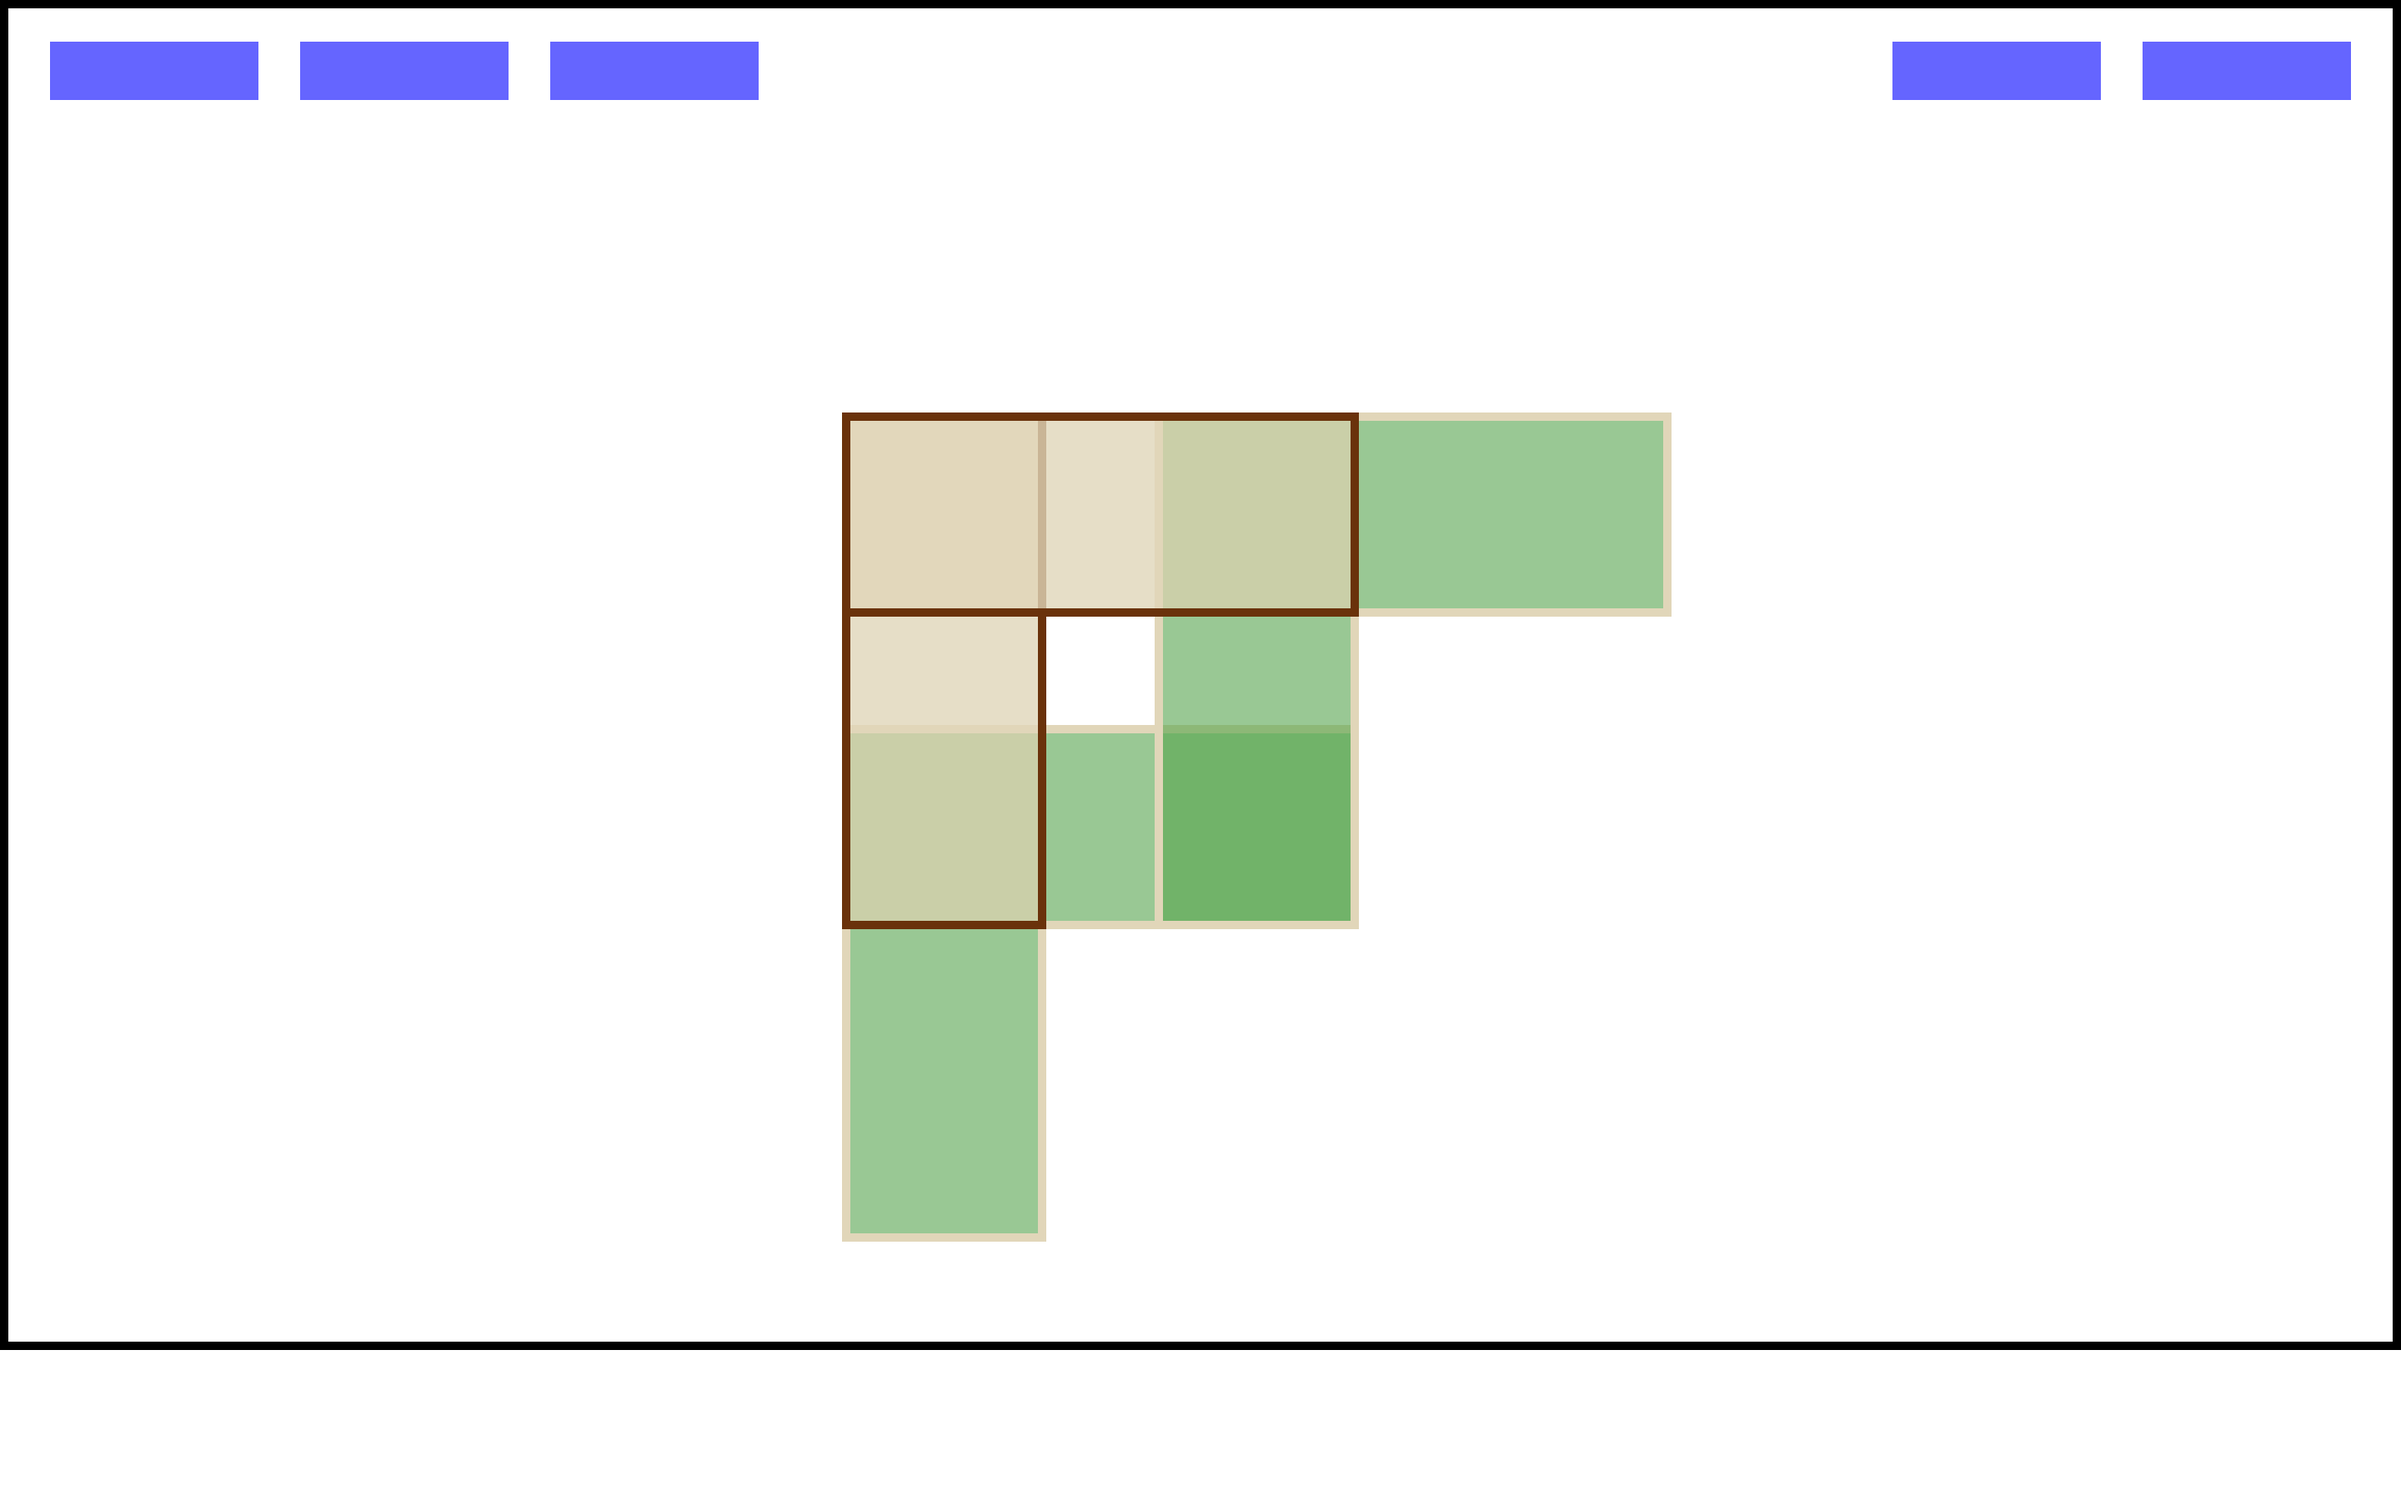
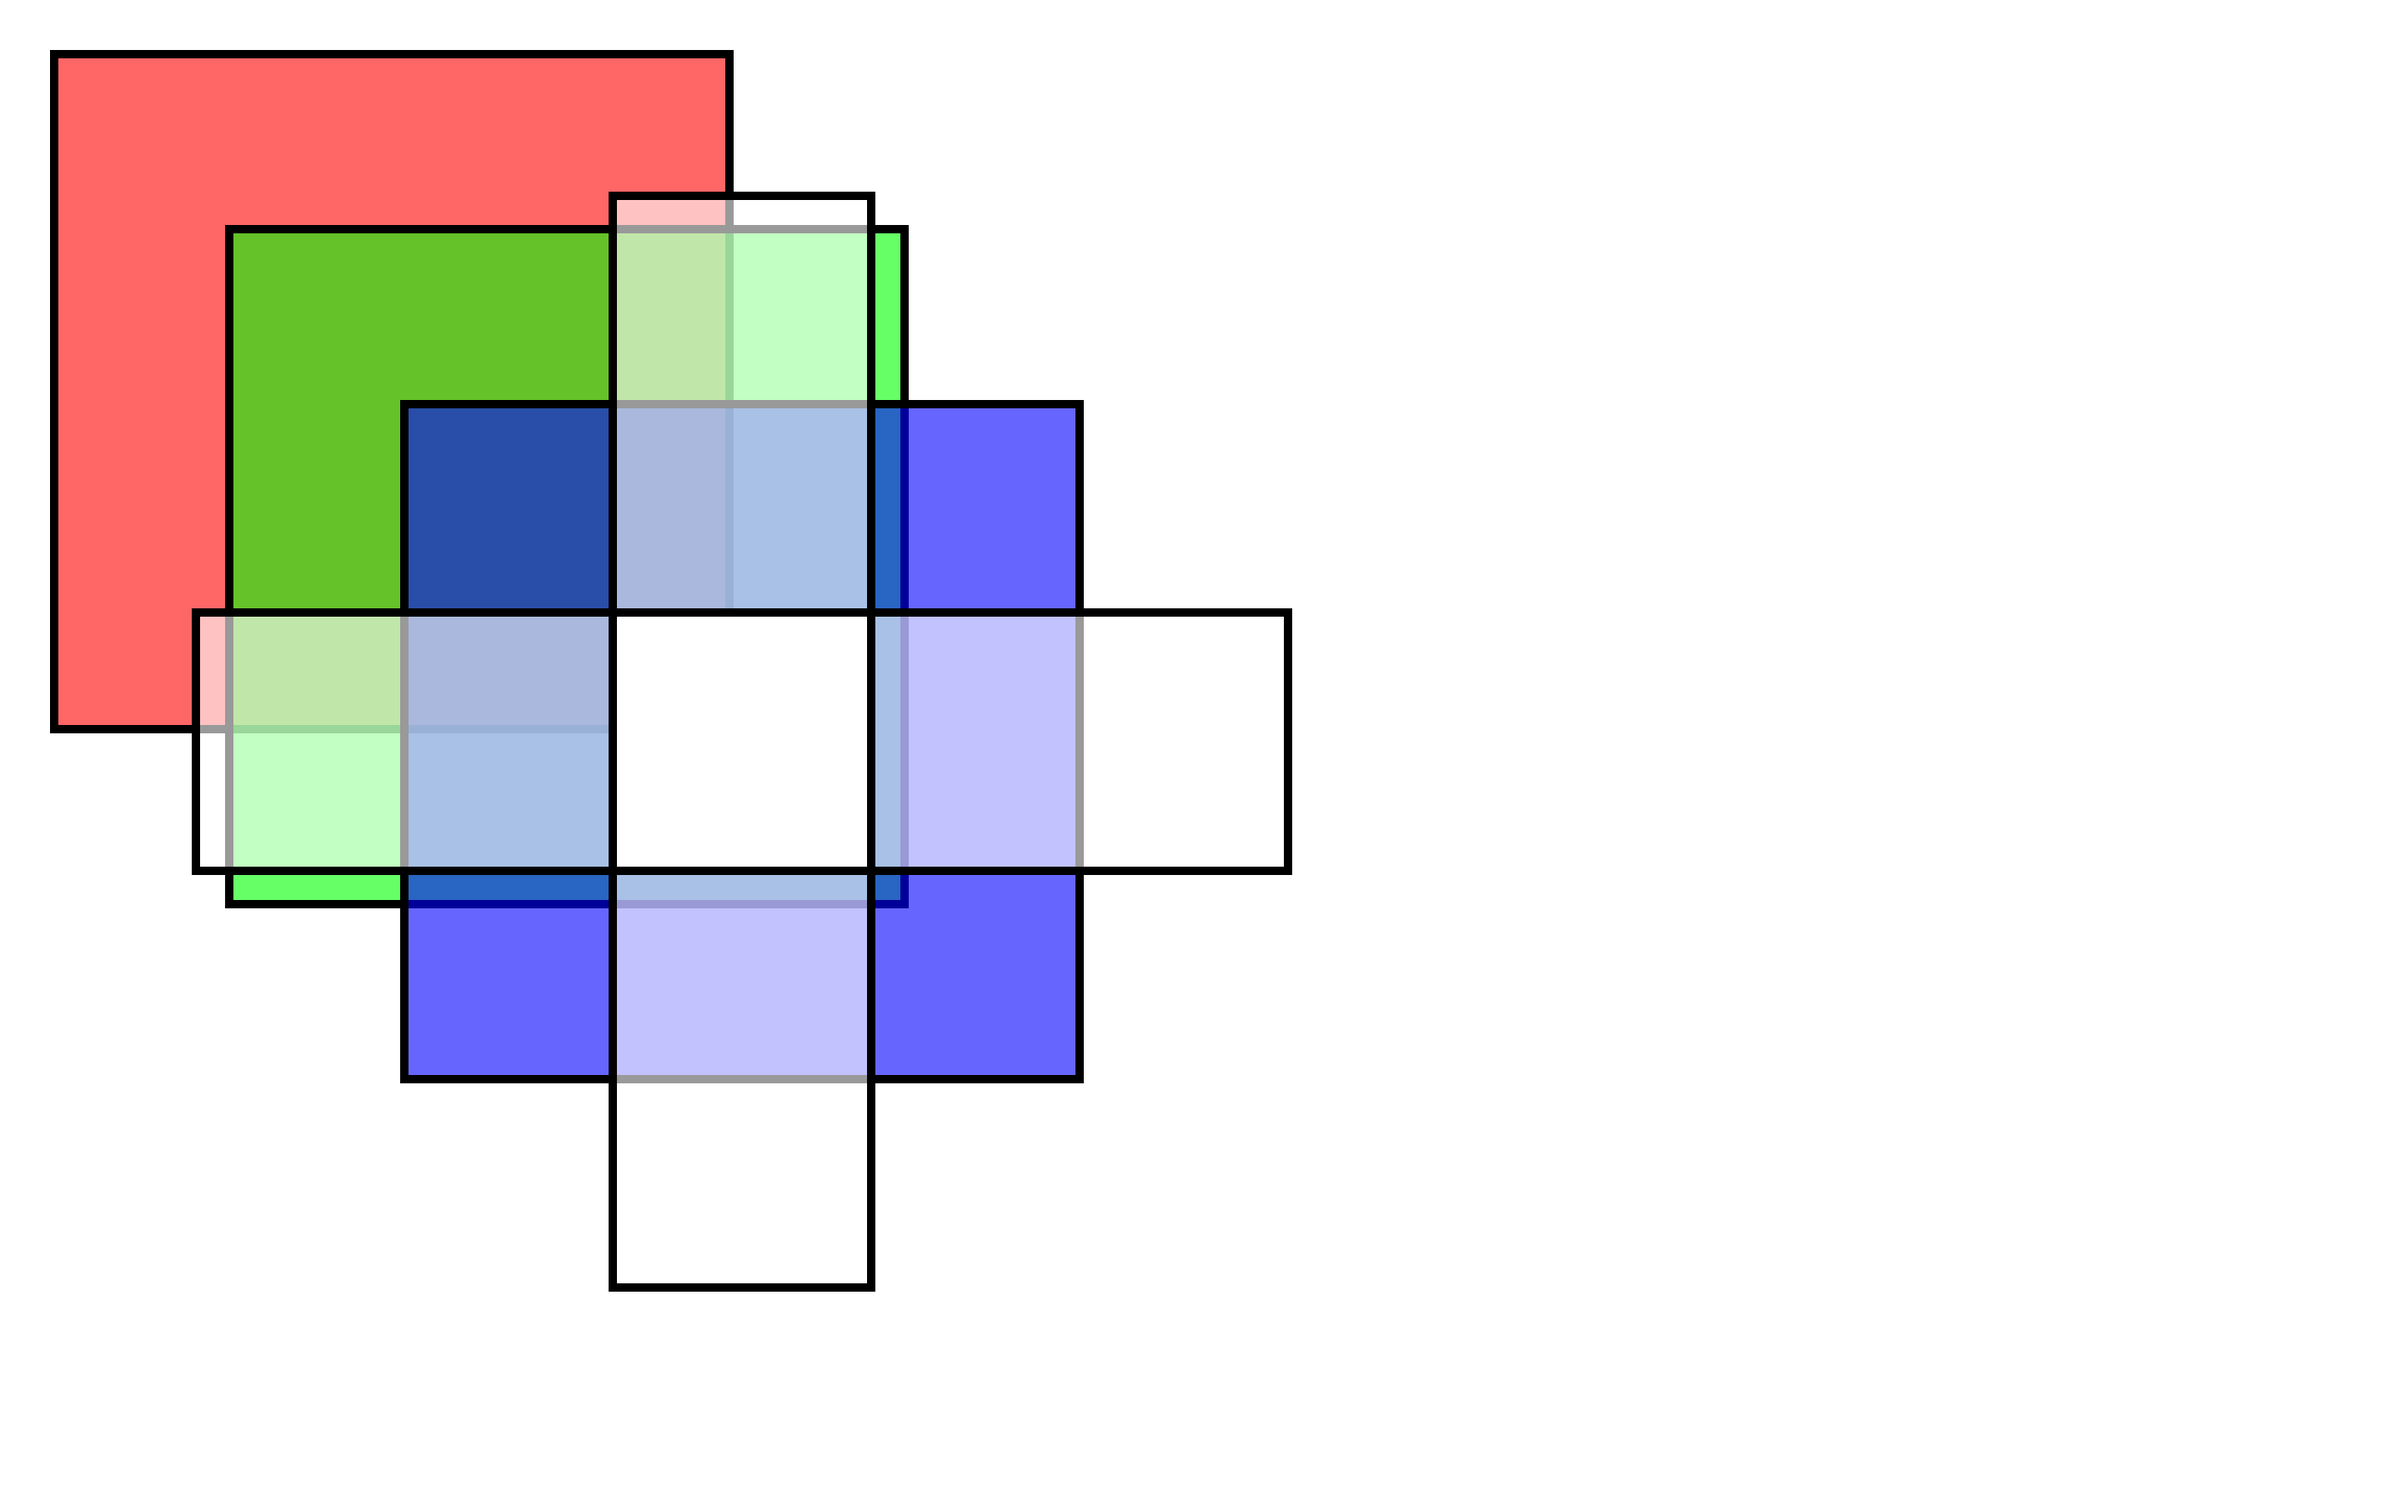
cleanup: cpp includes and implied ownership

diff --git a/src/layout.cpp b/src/layout.cpp
@@ -179,7 +179,7 @@ Layout::BoxPtr Layout::Box::from(const Style::StyledNode & styledRoot) {
                 root.children.push_back(Box::from(child));
                 break;
             case Inline:
-                root.getInlineContainer()->children.push_back(Box::from(child));
+                root.inlineContainer()->children.push_back(Box::from(child));
                 break;
             case None:
             default:
@@ -403,10 +403,10 @@ void Layout::StyledBox::setHeight() {
 }
 
 /**
- * Get the box an inline node should go into, or a create a new one
+ * Returns a pointer to the box an inline node should go into
  * @return box to put inline node in
  */
-Layout::Box * Layout::StyledBox::getInlineContainer() {
+Layout::Box * Layout::StyledBox::inlineContainer() {
     if (display == Inline) {
         return this;
     } else {  // *this is a block display

diff --git a/include/layout.hpp b/include/layout.hpp
@@ -282,10 +282,10 @@ class StyledBox : public Box {
     void setHeight();
 
     /**
-     * Get the box an inline node should go into, or a create a new one
+     * Returns a pointer to the box an inline node should go into
      * @return box to put inline node in
      */
-    Box * getInlineContainer();
+    Box * inlineContainer();
 
     Style::StyledNode content;
     DisplayType       display;

diff --git a/src/parser/css.cpp b/src/parser/css.cpp
@@ -5,7 +5,7 @@
 
 #include "parser/css.hpp"
 
-#include "parser.cpp"
+#include "parser/parser.hpp"
 
 #include <algorithm>
 #include <functional>

diff --git a/src/parser/html.cpp b/src/parser/html.cpp
@@ -5,7 +5,7 @@
 
 #include "parser/html.hpp"
 
-#include "parser.cpp"
+#include "parser/parser.hpp"
 
 #include <cctype>
 

diff --git a/include/parser/parser.hpp b/include/parser/parser.hpp
@@ -110,4 +110,6 @@ class Parser {
     uint64_t    ptr;
 };
 
+#include "../../src/parser/parser.cpp"
+
 #endif
